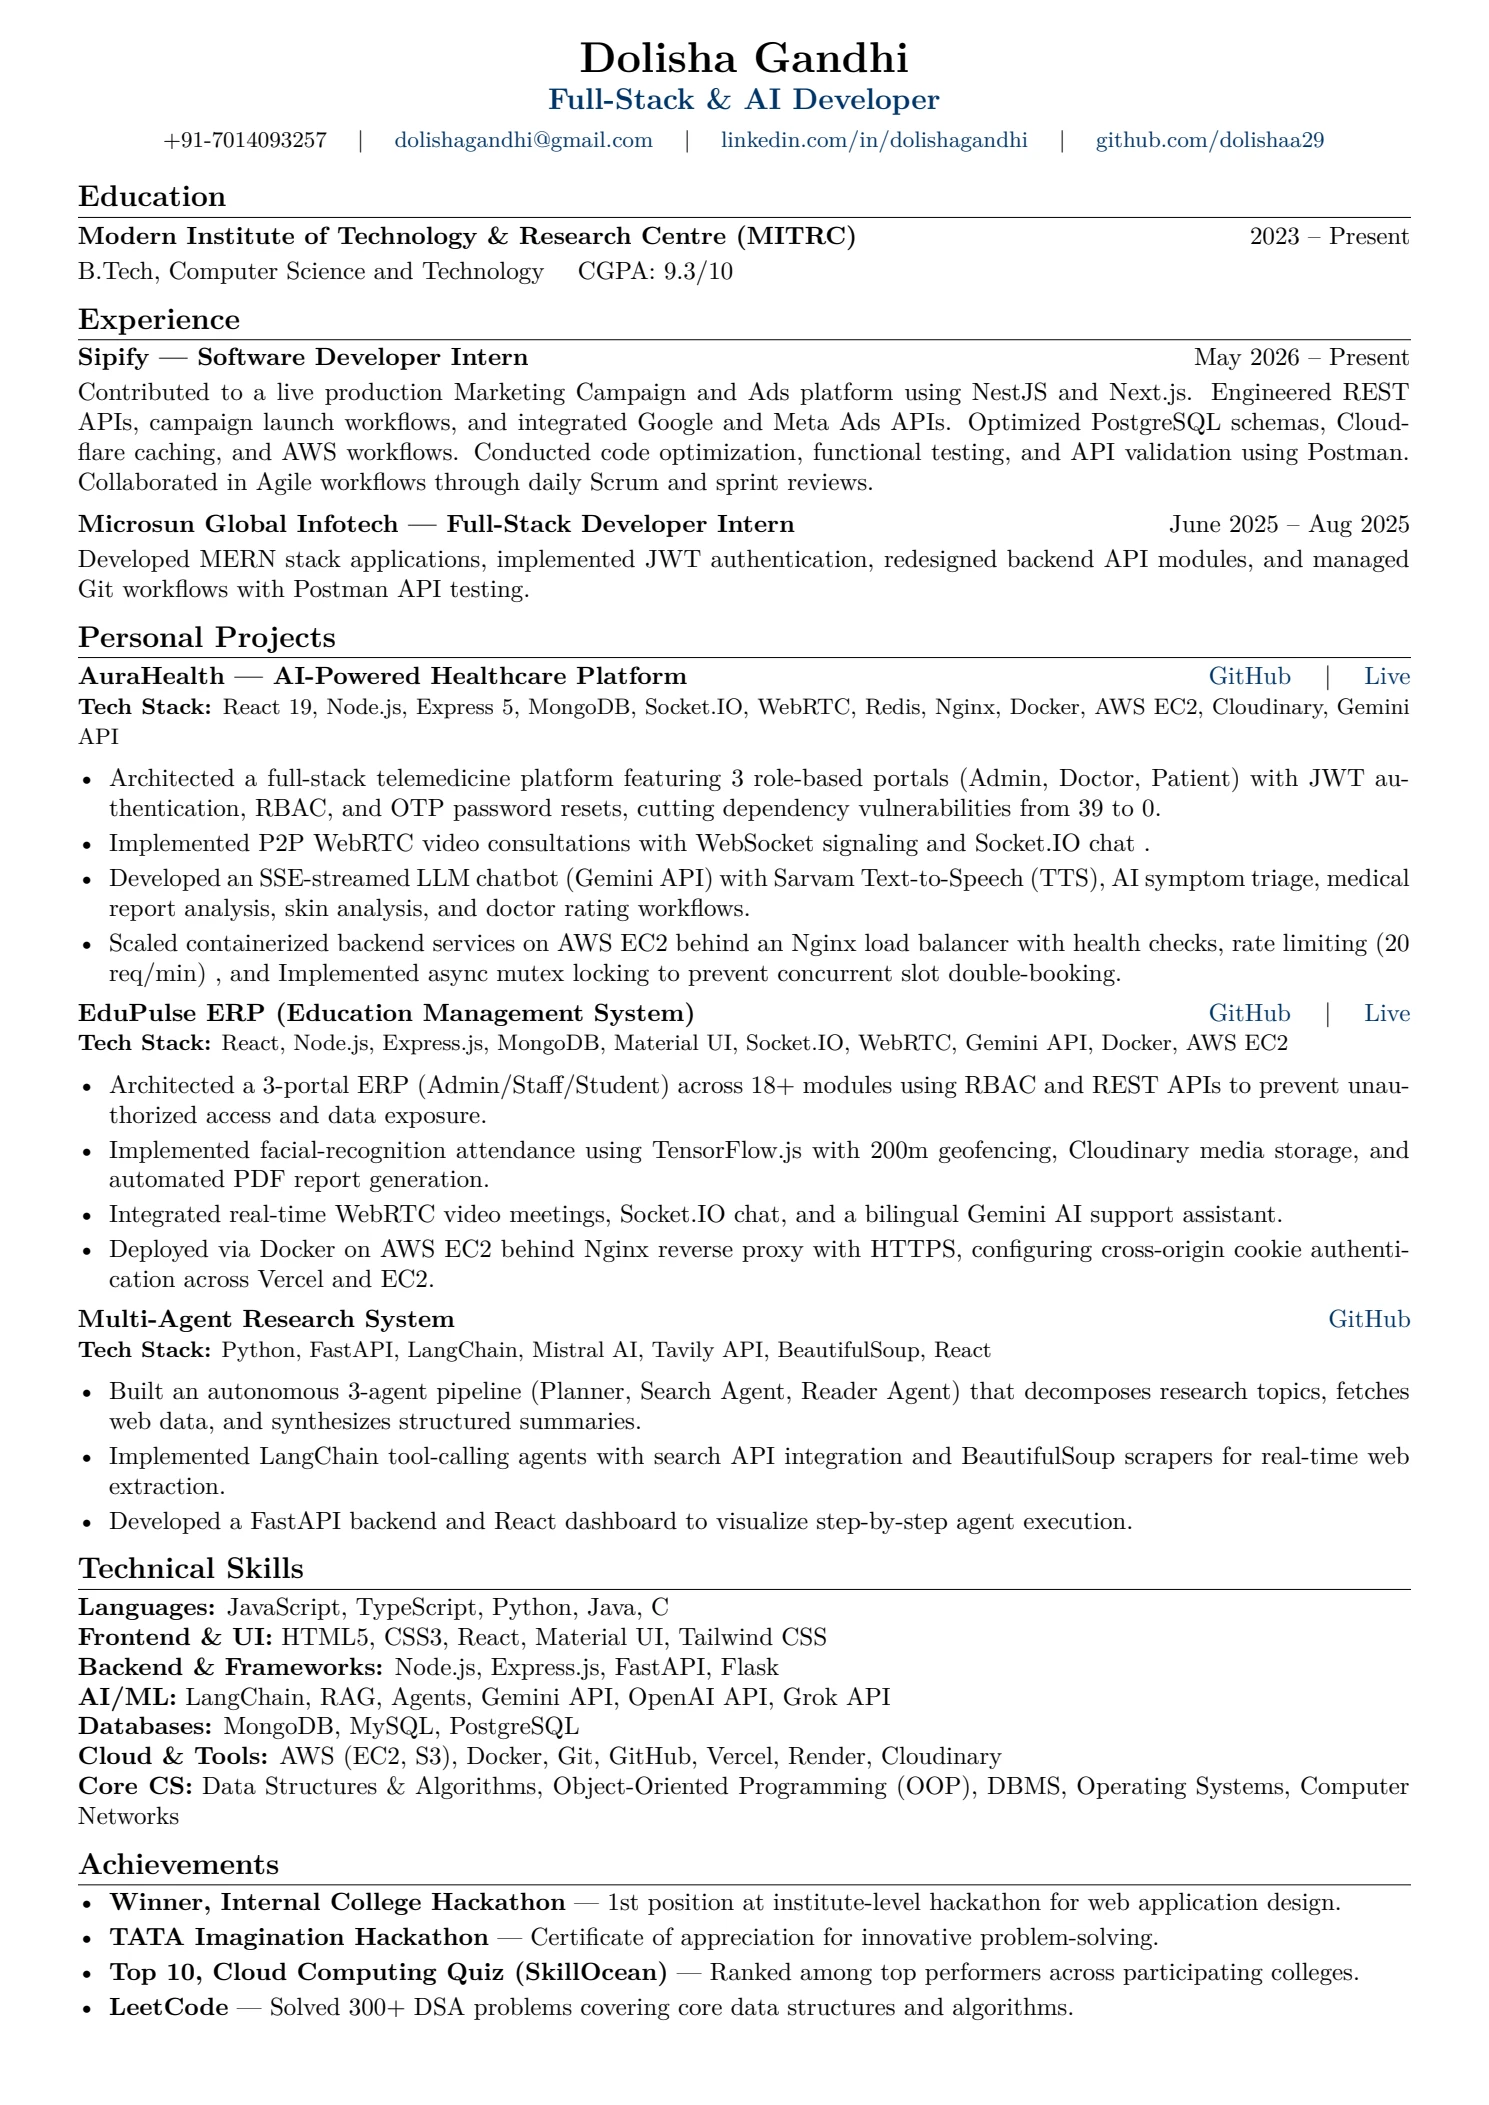
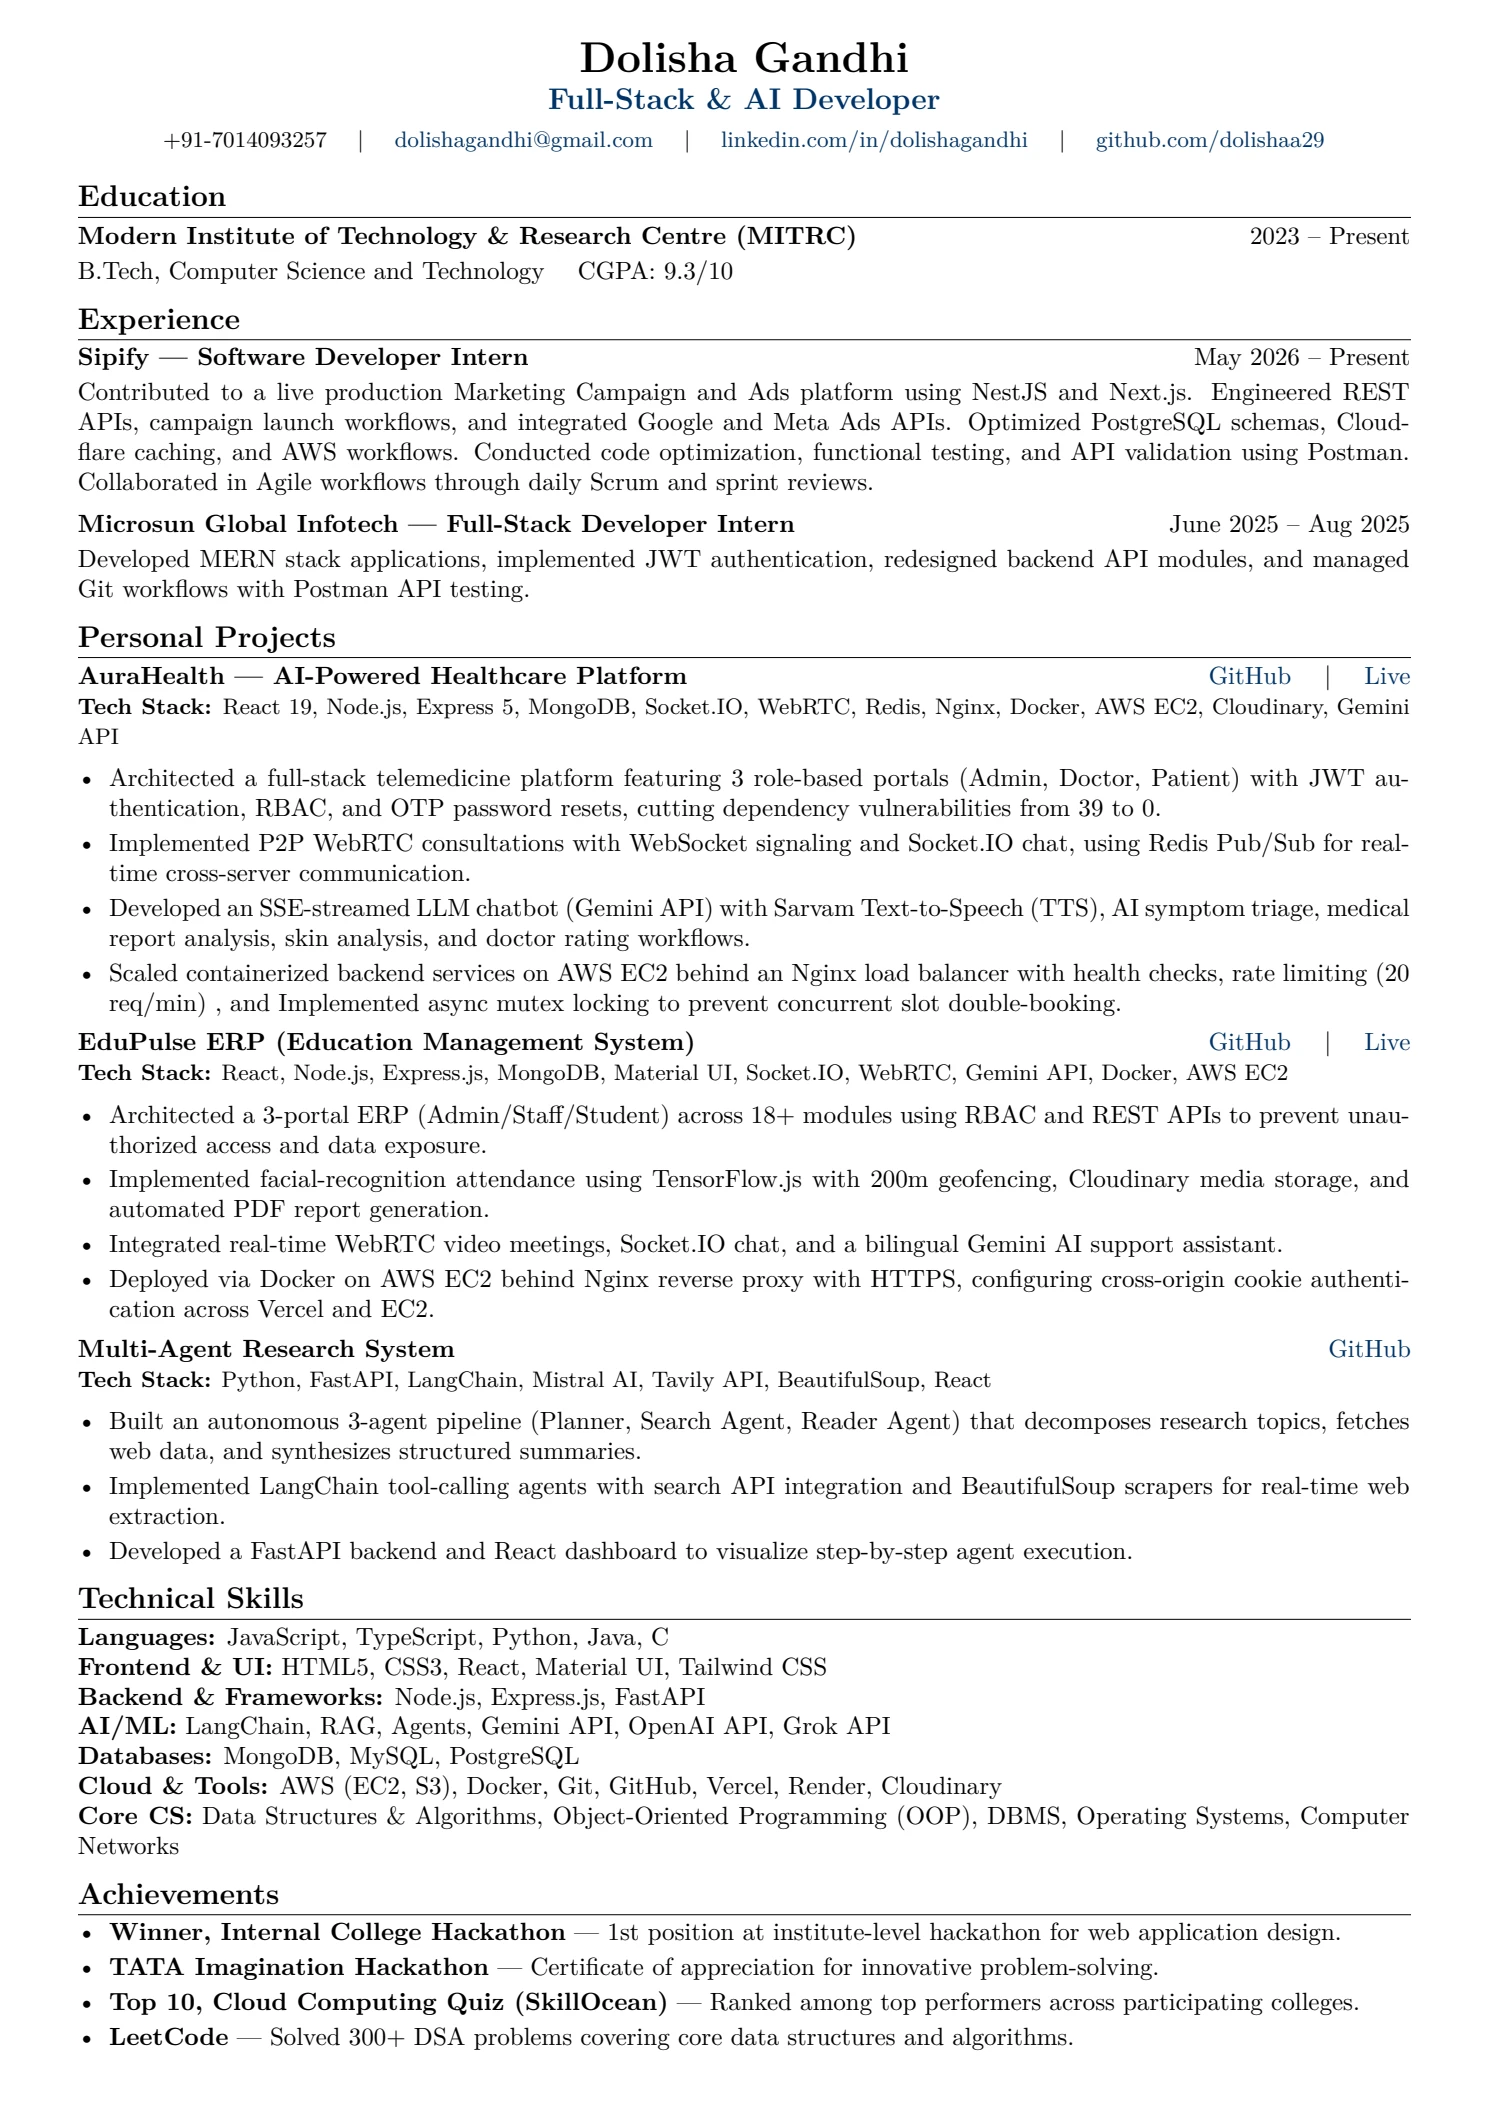
commit

Changed region(s): [[0.0309, 0.4014, 0.9577, 0.9881]]

diff --git a/Frontend/src/data/portfolio.js b/Frontend/src/data/portfolio.js
@@ -60,7 +60,7 @@ export const skillGroups = [
   { title: 'Languages', items: ['JavaScript', 'TypeScript', 'Python', 'Java', 'C', 'C++'] },
   { title: 'Frontend & UI', items: ['React', 'Next.js', 'HTML5', 'CSS3', 'Tailwind CSS', 'Material UI'] },
   { title: 'Backend', items: ['Node.js', 'Express.js', 'NestJS', 'FastAPI', 'Flask', 'REST APIs', 'Socket.IO'] },
-  { title: 'AI & LLMs', items: ['LangChain', 'RAG', 'Agents', 'Gemini API', 'OpenAI API', 'Mistral AI', 'Hugging Face'] },
+  { title: 'AI & LLMs', items: ['LangChain', 'RAG', 'Agents', 'Gemini API', 'OpenAI API', 'Grok API', 'Mistral AI', 'Hugging Face'] },
   { title: 'Databases', items: ['MongoDB', 'PostgreSQL', 'MySQL', 'Redis'] },
   { title: 'Cloud & Tools', items: ['AWS (EC2, S3)', 'Docker', 'Nginx', 'Git & GitHub', 'Postman', 'Vercel', 'Cloudinary'] },
 ];
@@ -154,11 +154,12 @@ export const projects = [
     title: 'AuraHealth',
     subtitle: 'AI-Powered Healthcare Platform',
     description:
-      'Telemedicine platform with Admin, Doctor and Patient portals, WebRTC video consultations, Socket.IO chat and a Gemini-powered assistant for symptom triage, report and skin analysis.',
+      'Telemedicine platform with Admin, Doctor and Patient portals, P2P WebRTC consultations, Socket.IO chat and an SSE-streamed Gemini chatbot with Sarvam text-to-speech for symptom triage, report and skin analysis.',
     points: [
       'JWT + RBAC + OTP resets; cut dependency vulnerabilities from 39 to 0',
-      'Dockerized on AWS EC2 behind Nginx with Redis rate limiting (20 req/min)',
-      'Async locking to prevent appointment double-booking',
+      'Redis Pub/Sub for real-time cross-server communication',
+      'Dockerized on AWS EC2 behind an Nginx load balancer with health checks and rate limiting (20 req/min)',
+      'Async mutex locking to prevent concurrent slot double-booking',
     ],
     image: healthImg,
     tech: ['React 19', 'Express 5', 'MongoDB', 'WebRTC', 'Redis', 'Docker', 'Gemini'],
@@ -172,9 +173,10 @@ export const projects = [
     description:
       '3-portal ERP (Admin / Staff / Student) across 18+ modules — fees, hostel, library, transport — with facial-recognition attendance and a bilingual Gemini AI assistant.',
     points: [
-      'TensorFlow.js face attendance with 200m geofencing',
-      'WebRTC meetings, Socket.IO chat, automated PDF reports',
-      'Docker on AWS EC2 behind Nginx with HTTPS',
+      'RBAC and REST APIs to prevent unauthorized access and data exposure',
+      'TensorFlow.js face attendance with 200m geofencing, Cloudinary media and automated PDF reports',
+      'WebRTC meetings, Socket.IO chat and a bilingual Gemini AI assistant',
+      'Docker on AWS EC2 behind Nginx with HTTPS; cross-origin cookie auth across Vercel and EC2',
     ],
     image: erpImg,
     tech: ['React', 'Node.js', 'MongoDB', 'Material UI', 'Socket.IO', 'Docker', 'AWS'],
@@ -190,7 +192,6 @@ export const projects = [
     points: [
       'LangChain tool-calling agents with Tavily search and BeautifulSoup scrapers',
       'FastAPI backend with a React dashboard visualizing each agent step',
-      'Modular writer / critic pipelines for AI-assisted article generation',
     ],
     image: null,
     tech: ['Python', 'FastAPI', 'LangChain', 'Mistral AI', 'Tavily API', 'BeautifulSoup', 'React'],

diff --git a/Frontend/src/components/Contact.jsx b/Frontend/src/components/Contact.jsx
@@ -11,7 +11,6 @@ const Contact = () => {
   const [form, setForm] = useState({ name: '', email: '', subject: '', message: '' });
   const update = (e) => setForm({ ...form, [e.target.name]: e.target.value });
 
-  // No backend: compose the message in the visitor's email client.
   const handleSubmit = (e) => {
     e.preventDefault();
     const subject = form.subject || `Portfolio enquiry from ${form.name}`;
